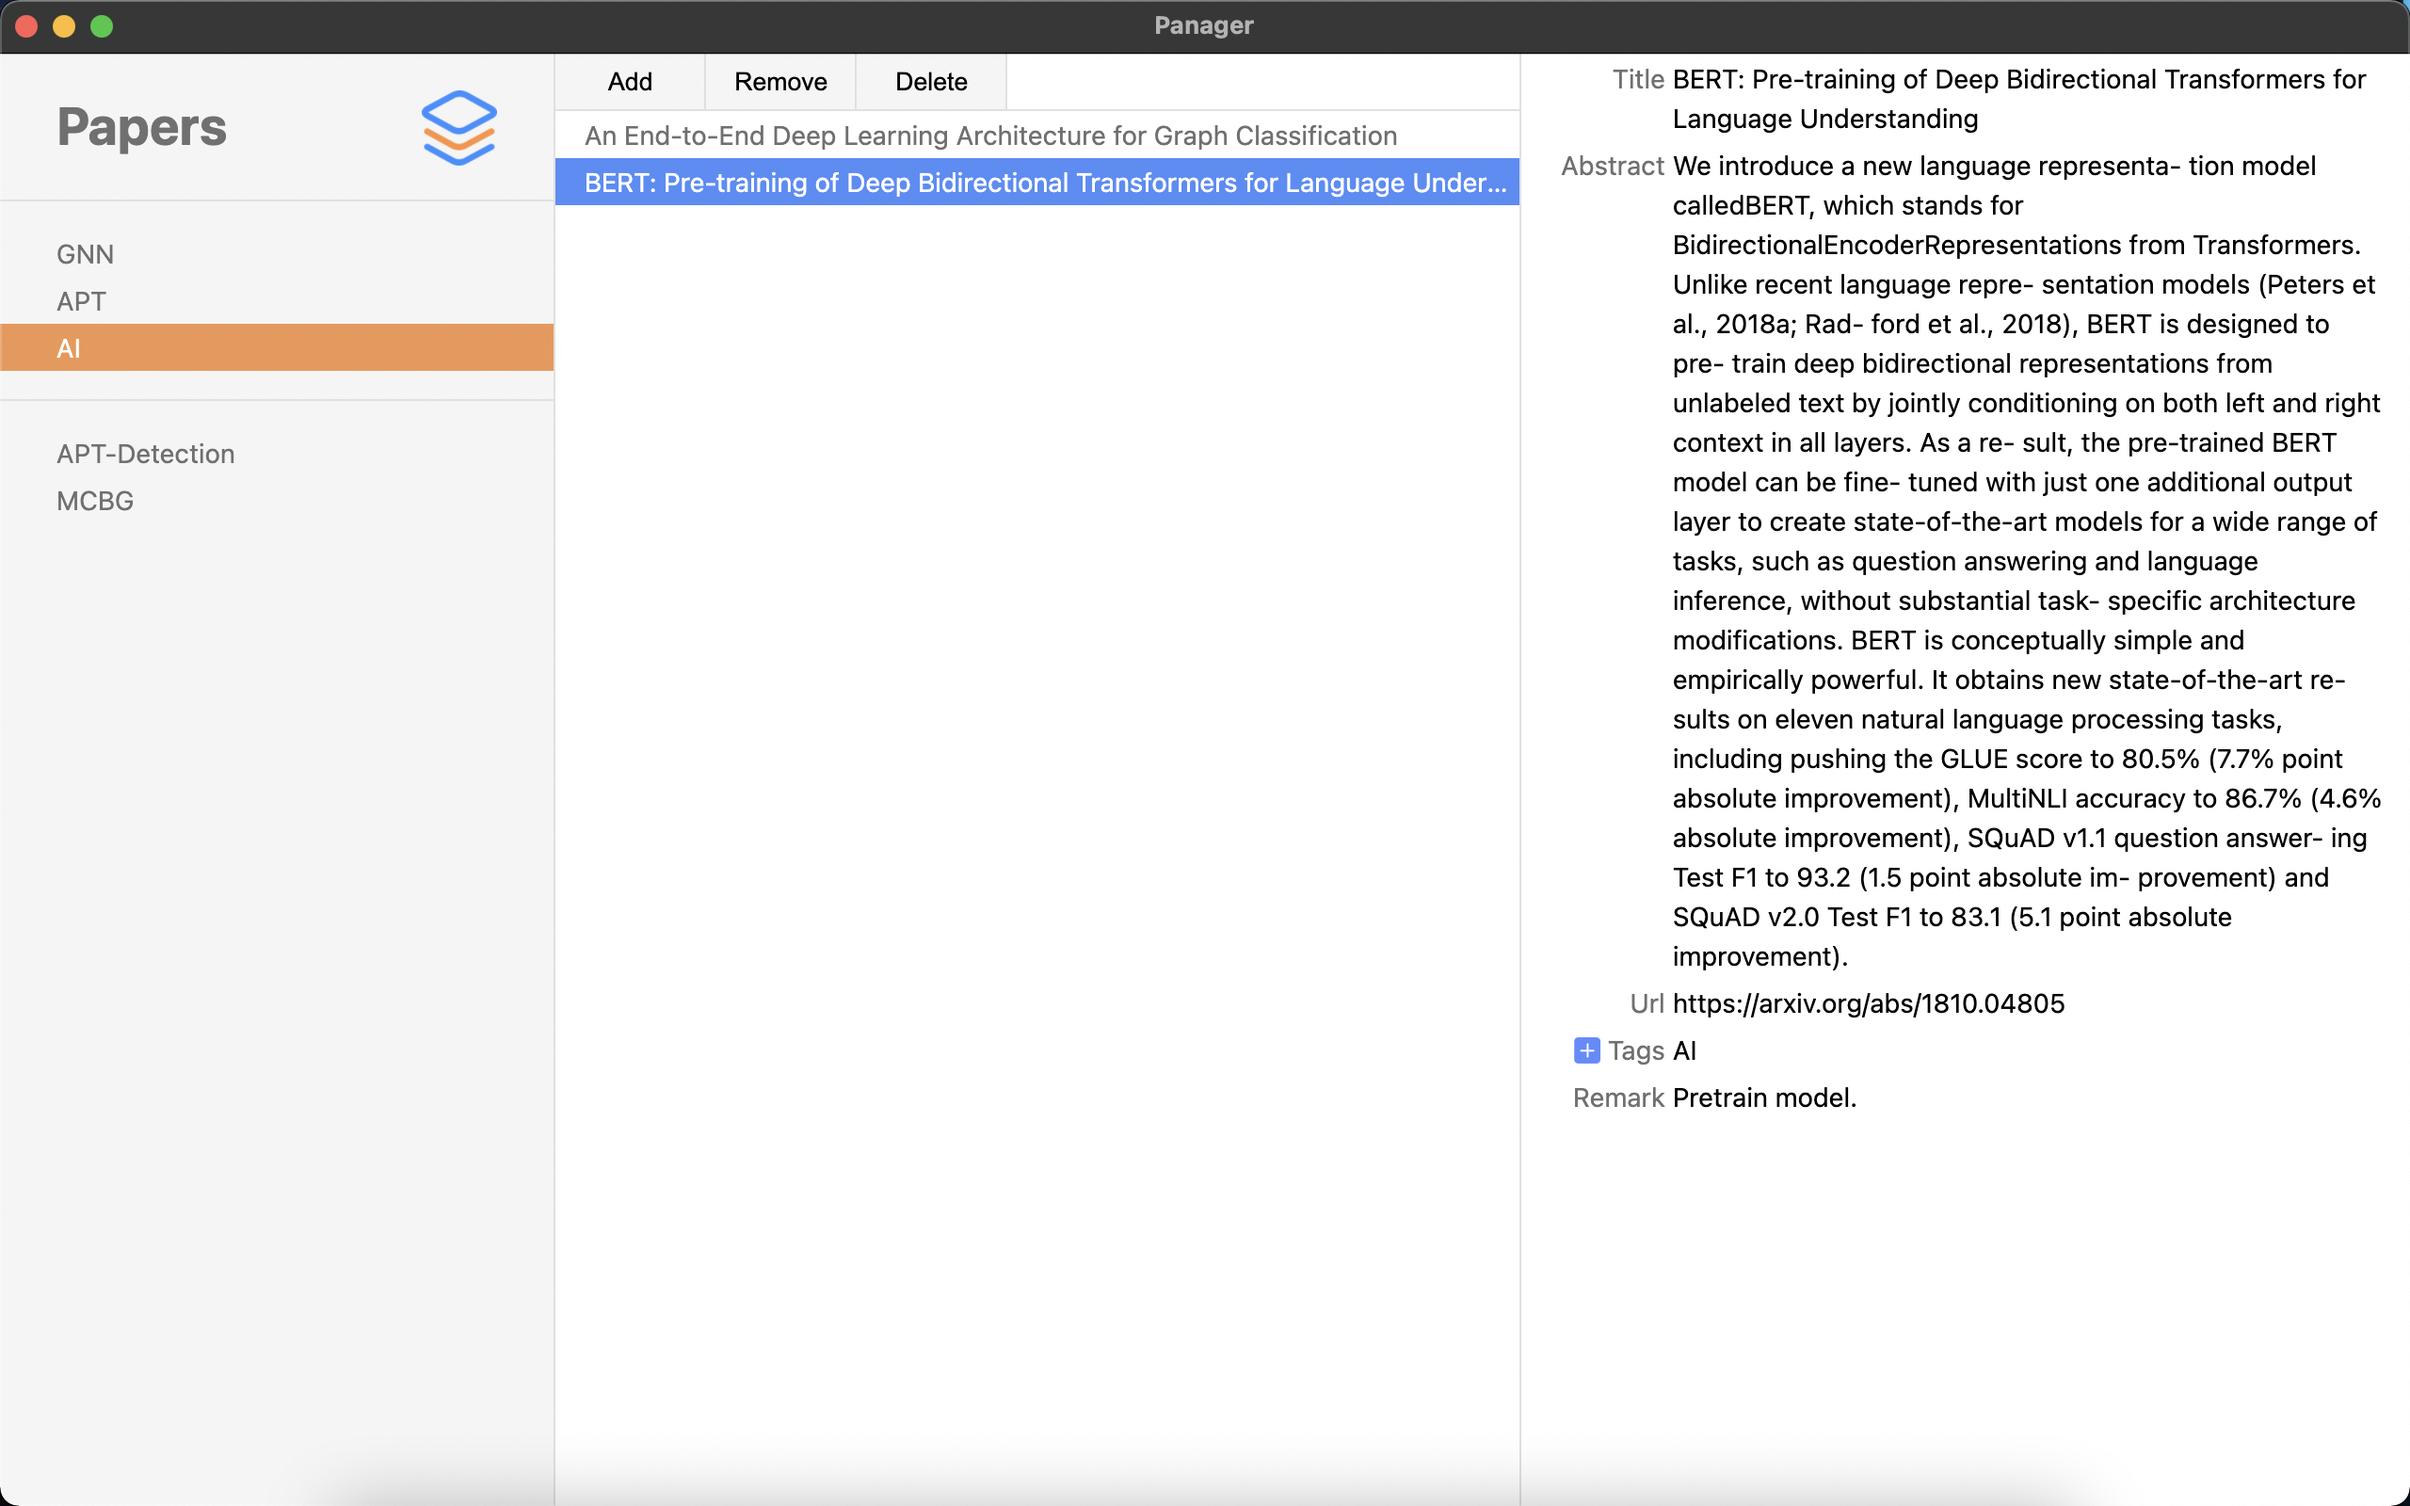
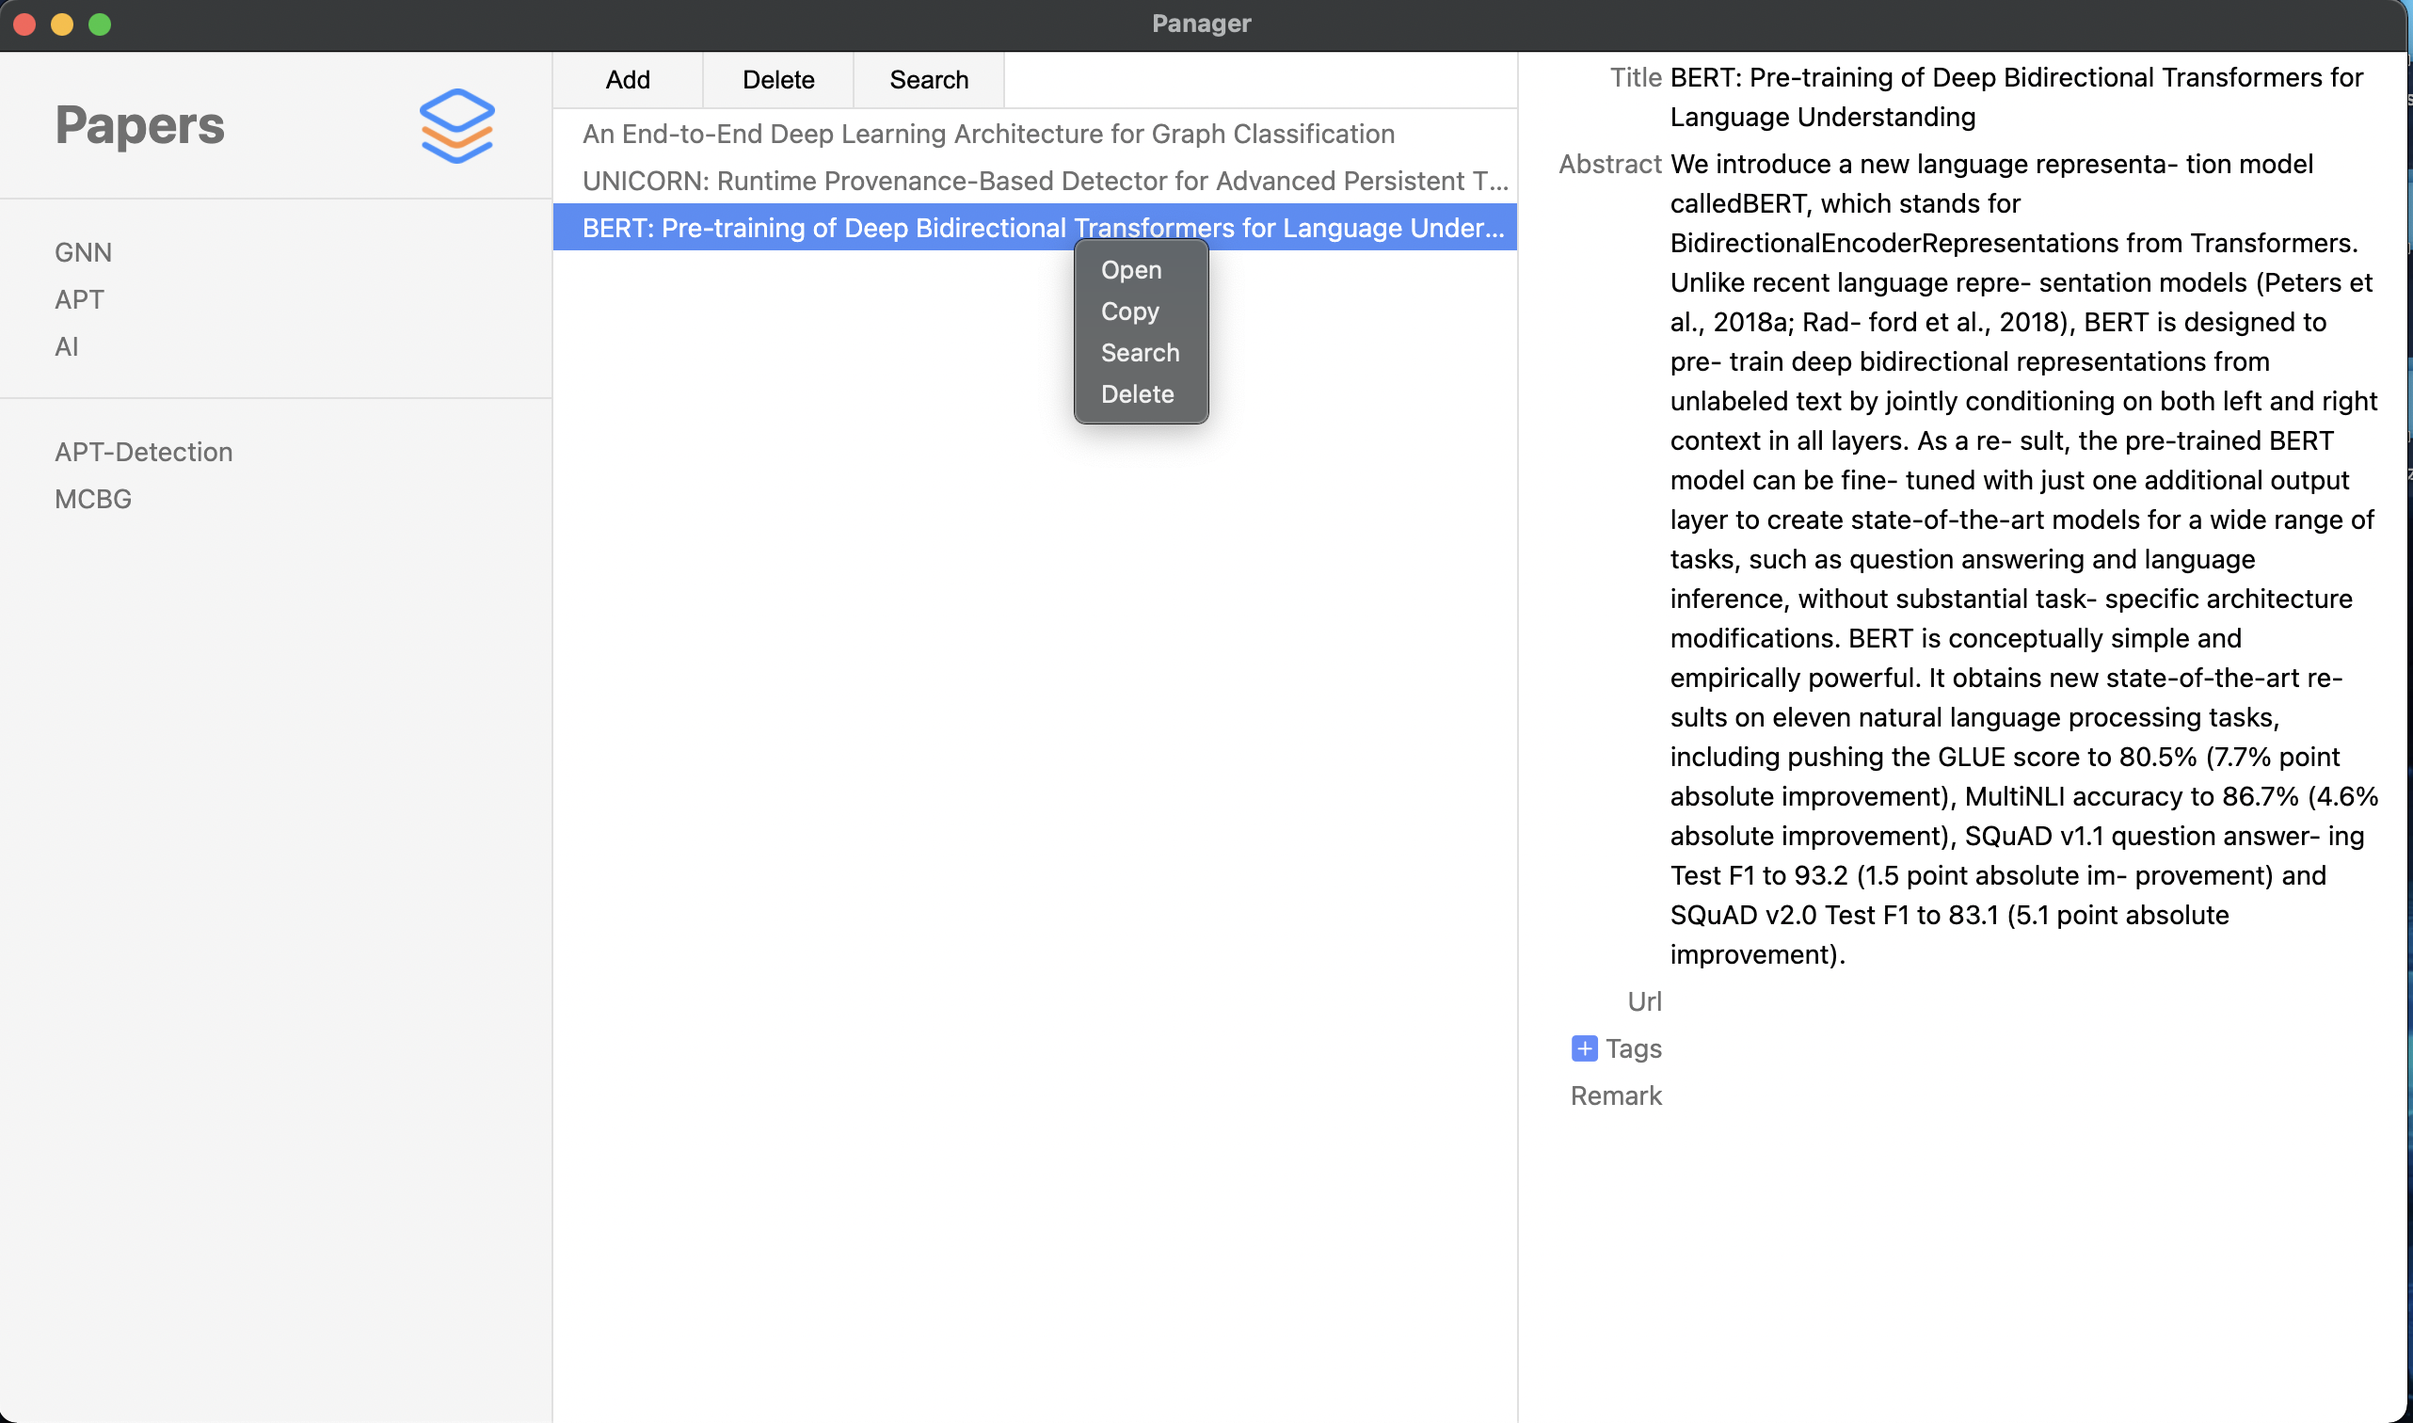
1. search paper; 2. store paper _id in memory;

diff --git a/renderer/function.js b/renderer/function.js
@@ -2,6 +2,7 @@
 function bindPaperlistFunc() {
     bindAddPapers()
     bindDeletePaper()
+    bindSearchPaper()
 }
 
 function addPapers() {
@@ -44,8 +45,10 @@ function bindAddPapers() {
 
 function _deletePaper(paper_btn){
     // used in paper button right menu
-    paperdb.remove({title: paper_btn.innerHTML})
-    if(paper_btn.innerHTML == current_paper[0]){
+    // selected paper may not be current_paper[0]
+    paper_btn_id = paper_btn.getAttribute('id')
+    paperdb.remove({_id: paper_btn_id})
+    if(paper_btn_id == current_paper[0]){
         current_paper = []
         clearOverview()
     }
@@ -55,6 +58,7 @@ function _deletePaper(paper_btn){
 
 function deletePaper() {
     // used by delete button, a paper must be selected
+    // selected paper must be current_paper[0]
     if(current_paper.length == 0){
         dialog.showMessageBox({
             type: 'warning',
@@ -62,7 +66,7 @@ function deletePaper() {
             buttons: ['OK']
         })
     }
-    paperdb.remove({title: current_paper[0]})
+    paperdb.remove({_id: current_paper[0]})
     current_paper = []
     displayPaperlist()
     clearOverview()
@@ -71,6 +75,35 @@ function deletePaper() {
 function bindDeletePaper() {
     document.querySelector('#delete-paper').onclick = ()=>{
         deletePaper()
+    }
+}
+
+function searchGoogleScholarUrl(keywords) {
+    return `https://scholar.google.com/scholar?hl=zh-CN&as_sdt=0%2C5&q=${keywords}&btnG=`
+}
+
+function _searchPaper(paper_btn) {
+    paperdb.findOne({_id: paper_btn.getAttribute('id')}, (err, doc)=>{
+        shell.openExternal(searchGoogleScholarUrl(doc.title))
+    })
+}
+
+function searchPaper() {
+    if(current_paper.length == 0){
+        dialog.showMessageBox({
+            type: 'warning',
+            message: 'A paper must be selected.',
+            buttons: ['OK']
+        })
+    }
+    paperdb.findOne({_id: current_paper[0]}, (err, doc)=>{
+        shell.openExternal(searchGoogleScholarUrl(doc.title))
+    })
+}
+
+function bindSearchPaper() {
+    document.querySelector('#search-paper').onclick = ()=>{
+        searchPaper()
     }
 }
 
@@ -91,11 +124,8 @@ function disableStylePaste(dom) {
 
 function bindEditTitle() {
     edit_title = document.querySelector('#title')
-    edit_title.addEventListener('blur', function(){
-        new_title = this.innerHTML
-        old_title = current_paper[0]        
-        current_paper = [new_title]
-        paperdb.update({title: old_title}, {$set: {title: new_title}}, {})
+    edit_title.addEventListener('blur', function(){    
+        paperdb.update({_id: current_paper[0]}, {$set: {title: this.innerHTML}}, {})
         displayPaperlist()
     })
 
@@ -106,7 +136,7 @@ function bindEditTitle() {
 function bindEditUrl() {
     edit_url = document.querySelector('#url')
     edit_url.addEventListener('blur', function(){
-        paperdb.update({title: current_paper[0]}, {$set: {url: this.innerHTML}}, {})
+        paperdb.update({_id: current_paper[0]}, {$set: {url: this.innerHTML}}, {})
     })
     disableStylePaste(edit_url)
 }
@@ -114,7 +144,7 @@ function bindEditUrl() {
 function bindEditRemark() {
     edit_remark = document.querySelector('#remark')
     edit_remark.addEventListener('blur', function(){
-        paperdb.update({title: current_paper[0]}, {$set: {remark: this.innerHTML}}, {})
+        paperdb.update({_id: current_paper[0]}, {$set: {remark: this.innerHTML}}, {})
     })
     disableStylePaste(edit_remark)
 }

diff --git a/renderer/index.js b/renderer/index.js
@@ -40,12 +40,12 @@ function bindLibraryButton(library_btn) {
     }
 }
 
-function createPaperButton(content) {
+function createPaperButton(doc) {
     var paper_btn = document.createElement('span')
     paper_btn.setAttribute('class', 'paperlist-button')
-    paper_btn.setAttribute('id', spaceToBar(content))
+    paper_btn.setAttribute('id', doc._id)
     paper_btn.setAttribute('status', 'up')
-    paper_btn.innerHTML = content
+    paper_btn.innerHTML = doc.title
     return paper_btn
 }
 
@@ -59,20 +59,20 @@ function bindPaperButton(paper_btn) {
         clickFlag = setTimeout(()=>{
             if(paper_btn.getAttribute('status') == 'up'){
                 if(current_paper.length == 1){
-                    up_btn = document.querySelector('#'+spaceToBar(current_paper[0]))
+                    up_btn = document.getElementById(current_paper[0])
                     up_btn.setAttribute('status', 'up')
                     up_btn.setAttribute('style', 'color:rgb(112, 112, 112); background-color: transparent')
                     current_paper = []
                 }
                 paper_btn.setAttribute('status', 'down')
                 paper_btn.setAttribute('style', 'color:white; background-color: rgb(79, 142, 247);')
-                current_paper.push(paper_btn.innerHTML)
+                current_paper.push(this.getAttribute('id'))
             } else {
                 paper_btn.setAttribute('status', 'up')
                 paper_btn.setAttribute('style', 'color:rgb(112, 112, 112); background-color: transparent')
             }
 
-            paperdb.findOne({title: this.innerHTML}, (err, doc)=>{
+            paperdb.findOne({_id: this.getAttribute('id')}, (err, doc)=>{
                 table.style.display = 'table' // display paper info
                 
                 var dataBuffer = fs.readFileSync(doc.path);
@@ -94,7 +94,7 @@ function bindPaperButton(paper_btn) {
         if(clickFlag){
             clickFlag = clearTimeout(clickFlag)
         }
-        paperdb.findOne({title: current_paper[0]}, (err, doc)=>{
+        paperdb.findOne({_id: current_paper[0]}, (err, doc)=>{
             shell.openPath(doc.path)
         })
     }
@@ -171,7 +171,7 @@ function displayPaperlist() {
             return
         }
         for(var i=0; i<docs.length; i++){
-            paper_btn = createPaperButton(docs[i].title)
+            paper_btn = createPaperButton(docs[i])
             bindPaperButton(paper_btn)
             document.querySelector('.paperlist').appendChild(paper_btn)
         }

diff --git a/renderer/menu.js b/renderer/menu.js
@@ -2,12 +2,23 @@
 function paperBtnMenuTemplate(paper_btn) {
     var template = [
         {
-            label: 'copy',
-            accelerator: 'command+c',
+            label: 'Open',
+            click: ()=>{
+                paperdb.findOne({title: paper_btn.innerHTML}, (err, doc)=>{
+                    shell.openPath(doc.path)
+                })
+            }
+        },
+        {
+            label: 'Copy',
             click: ()=>{ clipboard.writeText(paper_btn.innerHTML) }
         },
         {
-            label: 'delete',
+            label: 'Search',
+            click: ()=>{ _searchPaper(paper_btn) }
+        },
+        {
+            label: 'Delete',
             click: ()=>{ _deletePaper(paper_btn) }
         }
     ]

diff --git a/renderer/global.js b/renderer/global.js
@@ -31,11 +31,17 @@ function displayList(list) {
 }
 
 // prototype
-String.prototype.format = function (args) {
-    return this.replace(/\{(\w+)\}/g, function (s, i) {
-        return args[i];
-    });
-};
+if (!String.prototype.format) {
+	String.prototype.format = function() {
+	  	var args = arguments;
+	  	return this.replace(/{(\d+)}/g, function(match, number) { 
+		return typeof args[number] != 'undefined'
+		  	? args[number]
+		  	: match
+		;
+	  });
+	};
+}
 
 Array.prototype.indexOf = function(val) {
 	for (var i = 0; i < this.length; i++) {

diff --git a/html/edit_tags.html b/html/edit_tags.html
@@ -26,7 +26,7 @@
         var current_paper = null
 
         function displayTagsEditor() {
-            paperdb.findOne({title: current_paper[0]}, (err, doc_paper)=>{
+            paperdb.findOne({_id: current_paper[0]}, (err, doc_paper)=>{
                 selected_tags = doc_paper.tags
                 catedb.findOne({class: 'topic'}, (err, doc_topic)=>{
                     for(var i=0; i<doc_topic.tags.length; i++){

diff --git a/html/index.html b/html/index.html
@@ -27,6 +27,7 @@
             <div class='function'>
                 <button class='function-button' id='add-paper'>Add</button>
                 <button class='function-button' id='delete-paper'>Delete</button>
+                <button class='function-button' id='search-paper'>Search</button>
             </div>
             <!-- <button class='paperlist-button'>Paper 1</button> -->
         </div>

diff --git a/README.md b/README.md
@@ -15,7 +15,8 @@ Paper manage app built with Electron.
 - [ ] **Overview** for paper
   - [x] Title
   - [x] Abstract
-  - [x] Url
+  - [ ] Url
+    - [ ] Open url with browser
   - [ ] Tags
     - [ ] Add/Remove tags
   - [ ] Remark
@@ -28,7 +29,9 @@ Paper manage app built with Electron.
   - [ ] Right menu
     - [x] Copy title
     - [x] Delete
-    - [ ] Open
+    - [x] Open
+    - [x] Search
+  - [x] Search with Google Scholar
 
 # Screenshot
 ![demo](demo/demo.png)
